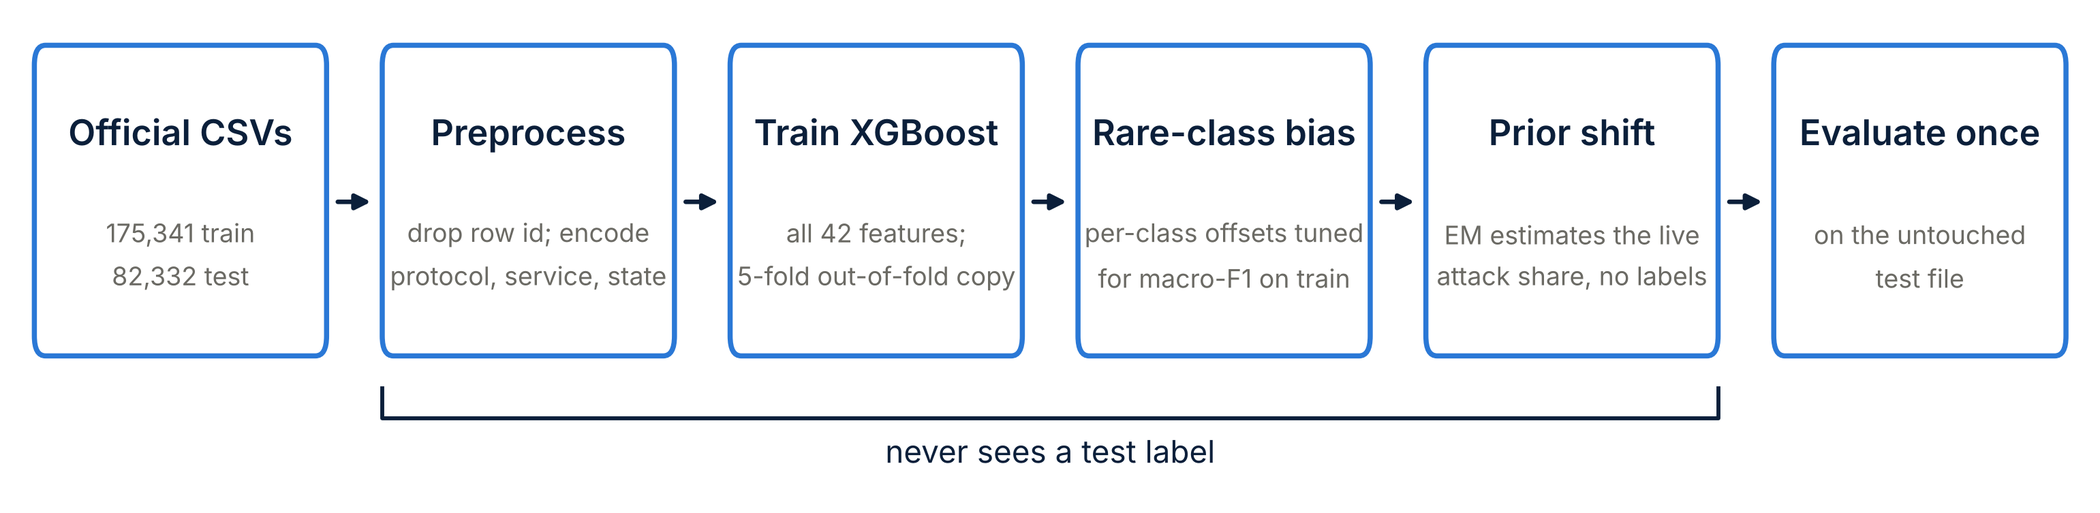
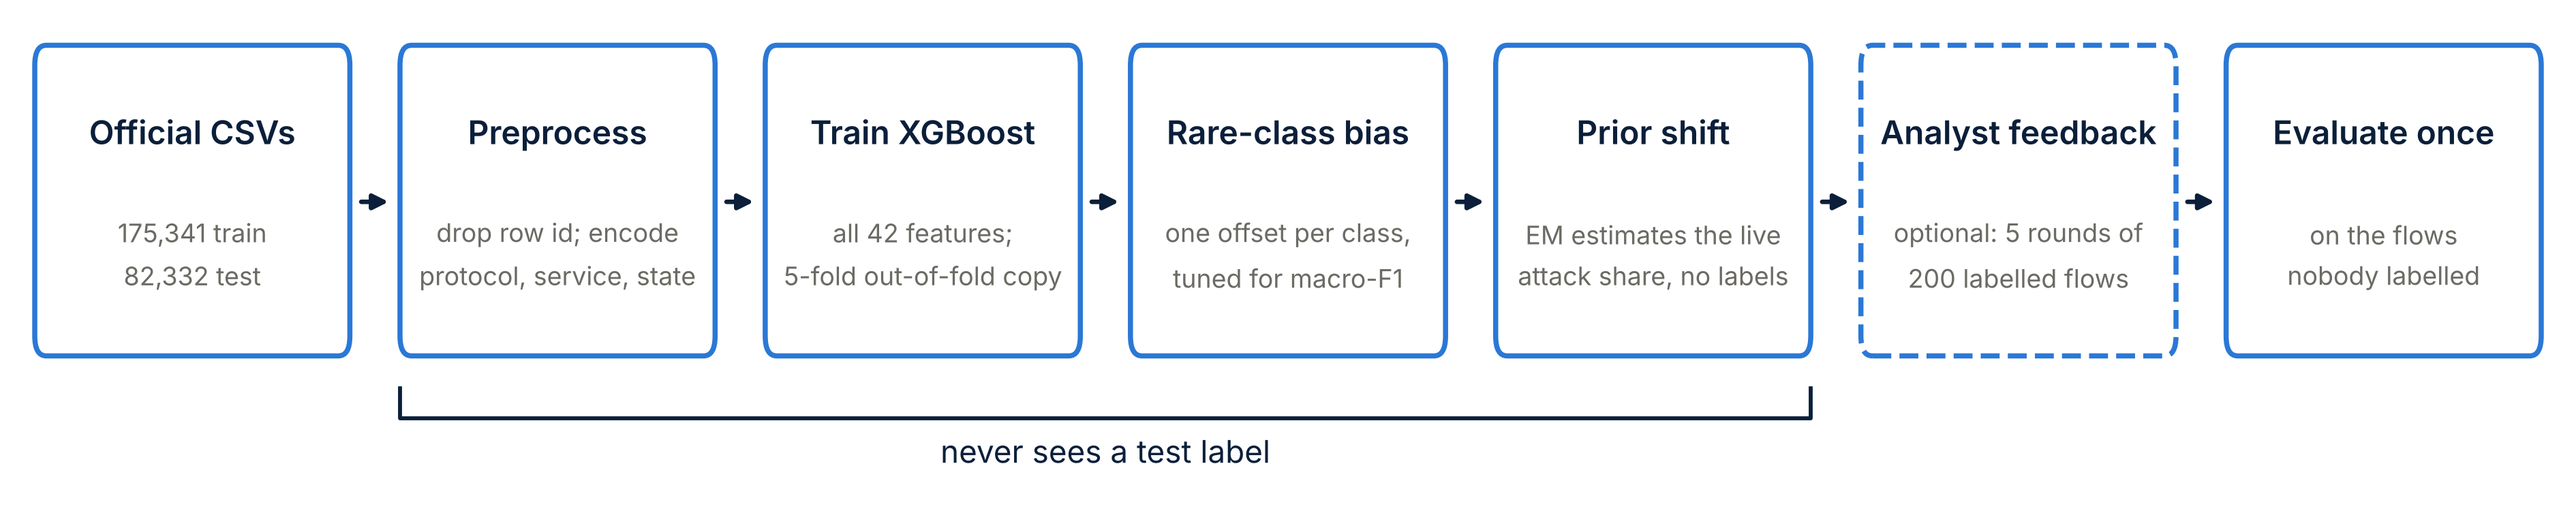
Fix recall-gain labels on drops; tidy chart legends and pipeline figure
recall_gain put the baseline label next to the final dot whenever recall
fell (Exploits 0.84 -> 0.62 read backwards). _gain_labels now places
each label on the outer side of its own dot; test_plots covers both
directions. The zero-day legend moves below the axis so it no longer
covers the Fuzzers label, selection curves use readable method names,
and the pipeline figure gains the optional analyst-feedback step,
outside the 'never sees a test label' bracket.

Gate: ruff clean, 30 tests pass.

Claude-Session: https://claude.ai/code/session_01Xn8S8VxtYocDVJqwhPAYth

diff --git a/ids/plots.py b/ids/plots.py
@@ -13,6 +13,11 @@ from matplotlib.colors import LinearSegmentedColormap  # noqa: E402
 from sklearn.metrics import confusion_matrix  # noqa: E402
 
 SERIES = {"anova_f": ("#2a78d6", "o"), "mutual_info": ("#eb6834", "s"), "rf_importance": ("#1baf7a", "^")}
+METHOD_NAMES = {
+    "anova_f": "ANOVA F-test",
+    "mutual_info": "mutual information",
+    "rf_importance": "RF importance",
+}
 INK, MUTED, GRID = "#1f1f1e", "#6b6a64", "#e4e3df"
 BLUES = LinearSegmentedColormap.from_list("blues", ["#fcfcfb", "#86b6ef", "#2a78d6", "#0d366b"])
 plt.rcParams.update({"font.family": "sans-serif", "font.sans-serif": ["Inter", "DejaVu Sans"]})
@@ -31,7 +36,9 @@ def selection_curve(rows: pd.DataFrame, path: Path, title: str) -> None:
     fig, ax = plt.subplots(figsize=(7, 4.2))
     for method, (color, marker) in SERIES.items():
         r = rows[rows["selection"] == method].sort_values("n_features")
-        ax.plot(r["n_features"], r["macro_f1"], color=color, marker=marker, lw=2, ms=6, label=method)
+        ax.plot(
+            r["n_features"], r["macro_f1"], color=color, marker=marker, lw=2, ms=6, label=METHOD_NAMES[method]
+        )
     ax.set_xticks(sorted(rows["n_features"].unique()))
     ax.grid(axis="y", color=GRID, lw=0.8)
     ax.set_xlabel(f"features kept (of {rows['n_features'].max()})", color=MUTED)
@@ -79,24 +86,22 @@ def _hbar_axes(ax: plt.Axes, labels: list[str], title: str, xlabel: str) -> None
     ax.spines["left"].set_visible(False)
 
 
+def _gain_labels(base: float, final: float, pad: float = 0.02):
+    """(x, ha) of the baseline and final labels, each on the outer side of its own dot."""
+    if final >= base:
+        return (base - pad, "right"), (final + pad, "left")
+    return (base + pad, "left"), (final - pad, "right")
+
+
 def recall_gain(base: dict[str, float], final: dict[str, float], path: Path, title: str) -> None:
     """Dumbbell per class: grey dot = baseline recall, blue dot = improved recall."""
     labels = sorted(base, key=base.get)
     fig, ax = plt.subplots(figsize=(7.2, 0.9 + 0.42 * len(labels)))
     for i, c in enumerate(labels):
         ax.plot([base[c], final[c]], [i, i], color=GRID, lw=3, solid_capstyle="round", zorder=1)
-        ax.text(
-            min(final[c], base[c]) - 0.02,
-            i,
-            f"{base[c]:.2f}",
-            ha="right",
-            va="center",
-            fontsize=8,
-            color=MUTED,
-        )
-        ax.text(
-            max(final[c], base[c]) + 0.02, i, f"{final[c]:.2f}", ha="left", va="center", fontsize=8, color=INK
-        )
+        (base_x, base_ha), (final_x, final_ha) = _gain_labels(base[c], final[c])
+        ax.text(base_x, i, f"{base[c]:.2f}", ha=base_ha, va="center", fontsize=8, color=MUTED)
+        ax.text(final_x, i, f"{final[c]:.2f}", ha=final_ha, va="center", fontsize=8, color=INK)
     ax.scatter([base[c] for c in labels], range(len(labels)), s=55, color=MUTED, zorder=2, label="baseline")
     ax.scatter(
         [final[c] for c in labels],
@@ -130,7 +135,7 @@ def zero_day_chart(rows: pd.DataFrame, path: Path) -> None:
         "Detection rate: seen vs never-seen attack type",
         "share flagged as attack",
     )
-    ax.legend(frameon=False, loc="lower right", labelcolor=INK)
+    ax.legend(frameon=False, loc="upper center", bbox_to_anchor=(0.5, -0.12), ncol=2, labelcolor=INK)
     fig.savefig(path, dpi=200, bbox_inches="tight")
     plt.close(fig)
 

diff --git a/scripts/slide_figures.py b/scripts/slide_figures.py
@@ -80,21 +80,22 @@ def class_distribution(path: Path) -> None:
 
 
 def pipeline(path: Path) -> None:
-    steps = [
-        ("Official CSVs", "175,341 train\n82,332 test"),
-        ("Preprocess", "drop row id; encode\nprotocol, service, state"),
-        ("Train XGBoost", "all 42 features;\n5-fold out-of-fold copy"),
-        ("Rare-class bias", "per-class offsets tuned\nfor macro-F1 on train"),
-        ("Prior shift", "EM estimates the live\nattack share, no labels"),
-        ("Evaluate once", "on the untouched\ntest file"),
+    steps = [  # (title, caption, optional)
+        ("Official CSVs", "175,341 train\n82,332 test", False),
+        ("Preprocess", "drop row id; encode\nprotocol, service, state", False),
+        ("Train XGBoost", "all 42 features;\n5-fold out-of-fold copy", False),
+        ("Rare-class bias", "one offset per class,\ntuned for macro-F1", False),
+        ("Prior shift", "EM estimates the live\nattack share, no labels", False),
+        ("Analyst feedback", "optional: 5 rounds of\n200 labelled flows", True),
+        ("Evaluate once", "on the flows\nnobody labelled", False),
     ]
-    fig, ax = plt.subplots(figsize=(13, 3.0))
-    w, gap = 2.1, 0.4
-    for i, (title, caption) in enumerate(steps):
+    fig, ax = plt.subplots(figsize=(16, 3.0))
+    w, gap = 2.2, 0.35
+    for i, (title, caption, optional) in enumerate(steps):
         x = i * (w + gap)
-        _box(ax, x, 0.55, w, 1.25)
+        _box(ax, x, 0.55, w, 1.25, ls="--" if optional else "-")
         ax.text(
-            x + w / 2, 1.45, title, ha="center", va="center", fontsize=12.5, fontweight="semibold", color=NAVY
+            x + w / 2, 1.45, title, ha="center", va="center", fontsize=11.5, fontweight="semibold", color=NAVY
         )
         ax.text(x + w / 2, 0.95, caption, ha="center", va="center", fontsize=9, color=MUTED, linespacing=1.4)
         if i < len(steps) - 1:
@@ -102,7 +103,7 @@ def pipeline(path: Path) -> None:
     left, right = 1 * (w + gap), 4 * (w + gap) + w
     ax.plot([left, left, right, right], [0.42, 0.3, 0.3, 0.42], color=NAVY, lw=1.4)
     ax.text((left + right) / 2, 0.12, "never sees a test label", ha="center", fontsize=11, color=NAVY)
-    ax.set_xlim(-0.1, 6 * w + 5 * gap + 0.1)
+    ax.set_xlim(-0.1, len(steps) * w + (len(steps) - 1) * gap + 0.1)
     ax.set_ylim(0, 1.9)
     ax.axis("off")
     _save(fig, path)

diff --git a/tests/test_plots.py b/tests/test_plots.py
@@ -1,0 +1,10 @@
+from ids.plots import _gain_labels
+
+
+def test_each_recall_label_sits_on_the_outer_side_of_its_own_dot():
+    (base_x, base_ha), (final_x, final_ha) = _gain_labels(base=0.84, final=0.62)  # recall fell
+    assert base_x > 0.84 and base_ha == "left"
+    assert final_x < 0.62 and final_ha == "right"
+    (base_x, base_ha), (final_x, final_ha) = _gain_labels(base=0.40, final=0.81)  # recall rose
+    assert base_x < 0.40 and base_ha == "right"
+    assert final_x > 0.81 and final_ha == "left"
